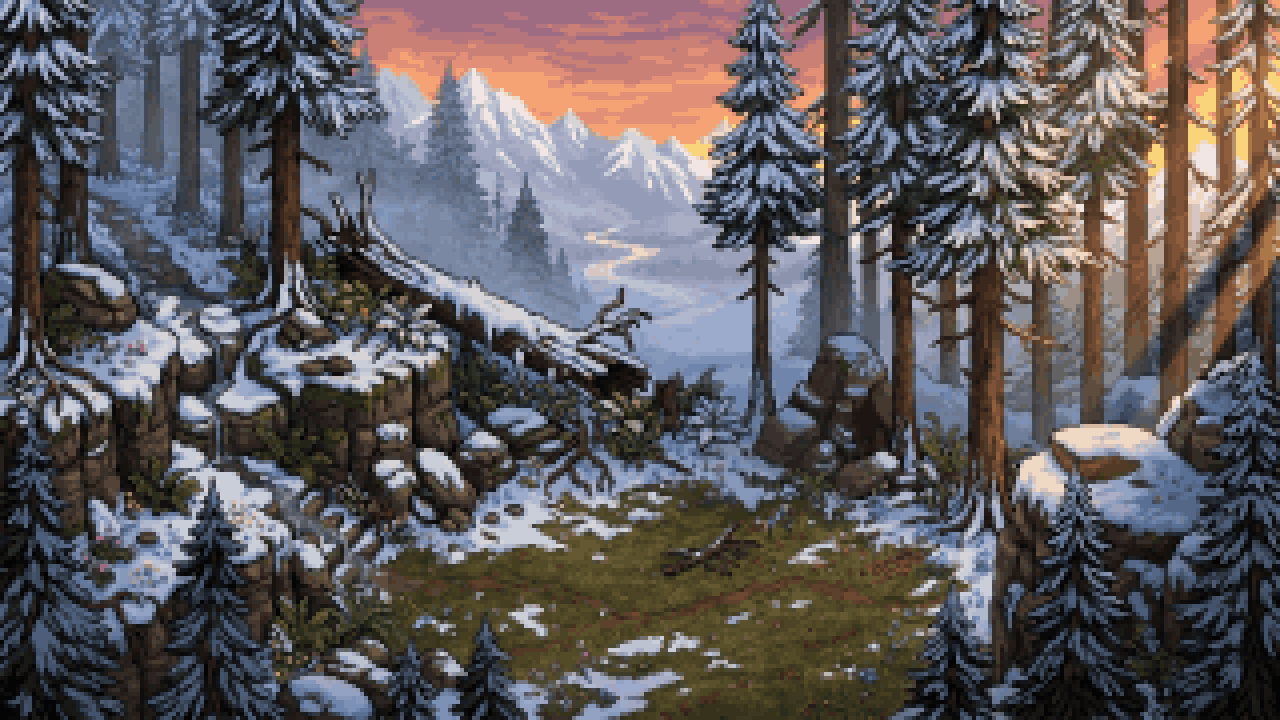
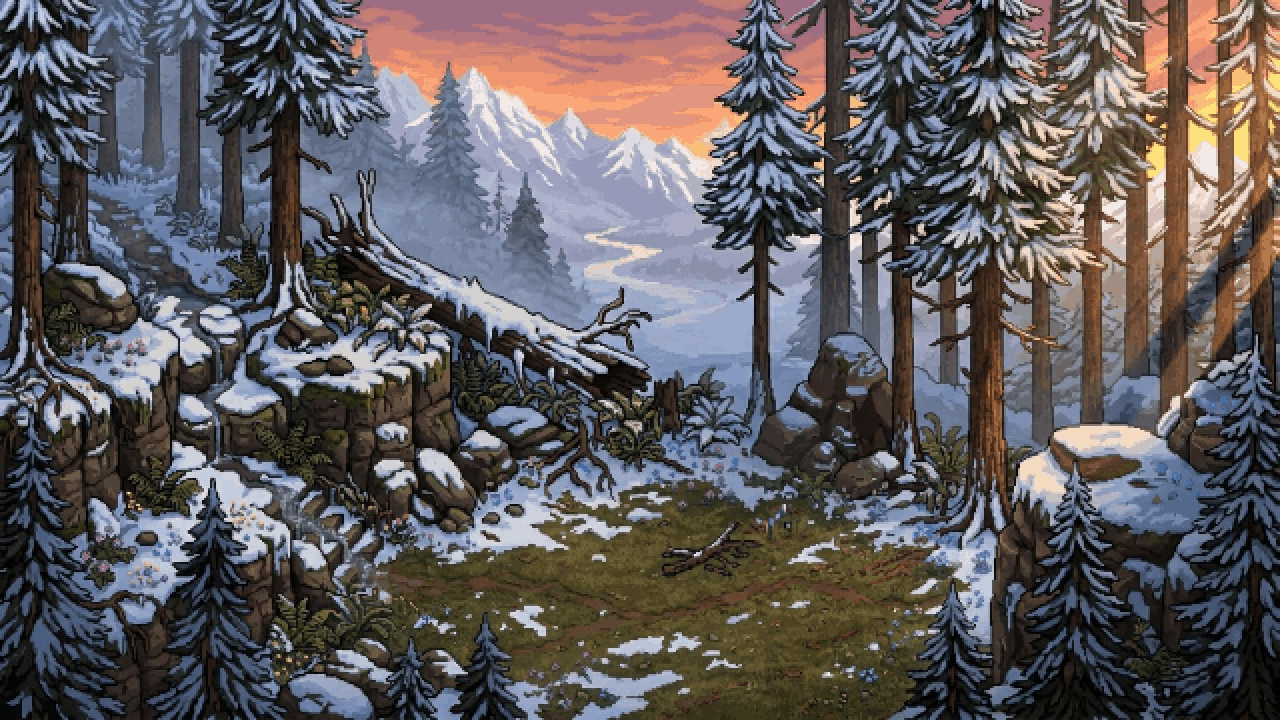
美術測試主視覺：解析度提高（場景 640×360、狼本體 64 像素），改善太糊的問題
Claude-Session: https://claude.ai/code/session_01HkqM82v9towmCBuEomSQC3

diff --git a/arts/art_scene_test_2026-10-13/process_scene.py b/arts/art_scene_test_2026-10-13/process_scene.py
@@ -1,5 +1,5 @@
-"""主視覺場景圖（Gemini）→ 遊戲用的像素背景：面積平均縮到 320×180（和遊戲現有的地形背景同尺寸，畫面上放大 2 倍），
-再收斂成 128 色調色盤（不抖動），去掉 JPG 雜訊與 AI 圖裡大小不一的方塊。
+"""主視覺場景圖（Gemini）→ 遊戲用的像素背景：面積平均縮到 640×360（和畫面的邏輯尺寸 1:1；原本縮到 320×180 太糊），
+再收斂成 256 色調色盤（不抖動），去掉 JPG 雜訊與 AI 圖裡大小不一的方塊。
 用法：python3 process_scene.py  → assets/art/art_test/scene/bg_<名稱>.png
 """
 import os
@@ -7,8 +7,8 @@ from PIL import Image
 
 HERE = os.path.dirname(os.path.abspath(__file__))
 OUT = os.path.join(HERE, "..", "..", "assets", "art", "art_test", "scene")
-SIZE = (320, 180)
-COLORS = 128
+SIZE = (640, 360)
+COLORS = 256
 # 只用 Gemini 的圖（DeeVid 免費版有浮水印，原圖留在 source/ 但不輸出）
 SCENES = {"forest_summer": "bg_forest_summer.jpg", "forest_snowy": "bg_forest_snowy.jpg", "forest_winter": "bg_forest_winter.jpg"}
 
@@ -20,7 +20,7 @@ def main():
         small = im.resize(SIZE, Image.BOX)
         q = small.quantize(colors=COLORS, method=Image.Quantize.MEDIANCUT, kmeans=3, dither=Image.Dither.NONE).convert("RGB")
         q.save(os.path.join(OUT, f"bg_{key}.png"))
-        q.resize((SIZE[0] * 4, SIZE[1] * 4), Image.NEAREST).save(os.path.join(HERE, f"preview_bg_{key}.png"))
+        q.resize((SIZE[0] * 2, SIZE[1] * 2), Image.NEAREST).save(os.path.join(HERE, f"preview_bg_{key}.png"))
         print(key, q.size)
 
 

diff --git a/arts/art_scene_test_2026-10-13/scene_rig.py b/arts/art_scene_test_2026-10-13/scene_rig.py
@@ -341,8 +341,9 @@ HARE_W = dict(
 WOLVES = {"wolf_gray": WOLF_GRAY, "wolf_black": WOLF_BLACK, "grizzly": GRIZZLY,
           "wolf_gray2": WOLF_GRAY2, "grizzly2": GRIZZLY2, "elk_cow": ELK_COW, "elk_bull": ELK_BULL, "hare_winter": HARE_W}
 # 本體高度：狼 30 像素，其他照相對灰狼的比例（灰熊 1.5）
-BODY = {"wolf_gray": 30, "wolf_black": 30, "grizzly": 45,
-        "wolf_gray2": 30, "grizzly2": 45, "elk_cow": 60, "elk_bull": 78, "hare_winter": 15}
+# 本體高度（原生像素）：主視覺的背景是 640×360（和畫面邏輯尺寸 1:1），狼 64 像素；其他照相對灰狼的比例
+BODY = {"wolf_gray": 64, "wolf_black": 64, "grizzly": 96,
+        "wolf_gray2": 64, "grizzly2": 96, "elk_cow": 128, "elk_bull": 166, "hare_winter": 32}
 EYES = {"wolf_gray": (222, 160, 70), "wolf_black": (226, 196, 80), "grizzly": (40, 30, 26),
         "wolf_gray2": (222, 160, 70), "grizzly2": (150, 92, 48), "elk_cow": (40, 30, 26), "elk_bull": (40, 30, 26),
         "hare_winter": (30, 24, 24)}
@@ -385,7 +386,7 @@ def export(aid, cfg, eye_rgb, body_px=BODY_PX):
                      for i, f in enumerate(frames)]
     acts = export_game.bite_trails(acts)
     gid = GAME_ID.get(aid, aid)
-    export_game.REL.setdefault(gid, body_px / 30.0)
+    export_game.REL.setdefault(gid, body_px / 64.0)
     return export_game.write_animal("scene", gid, acts, rest_px)
 
 
